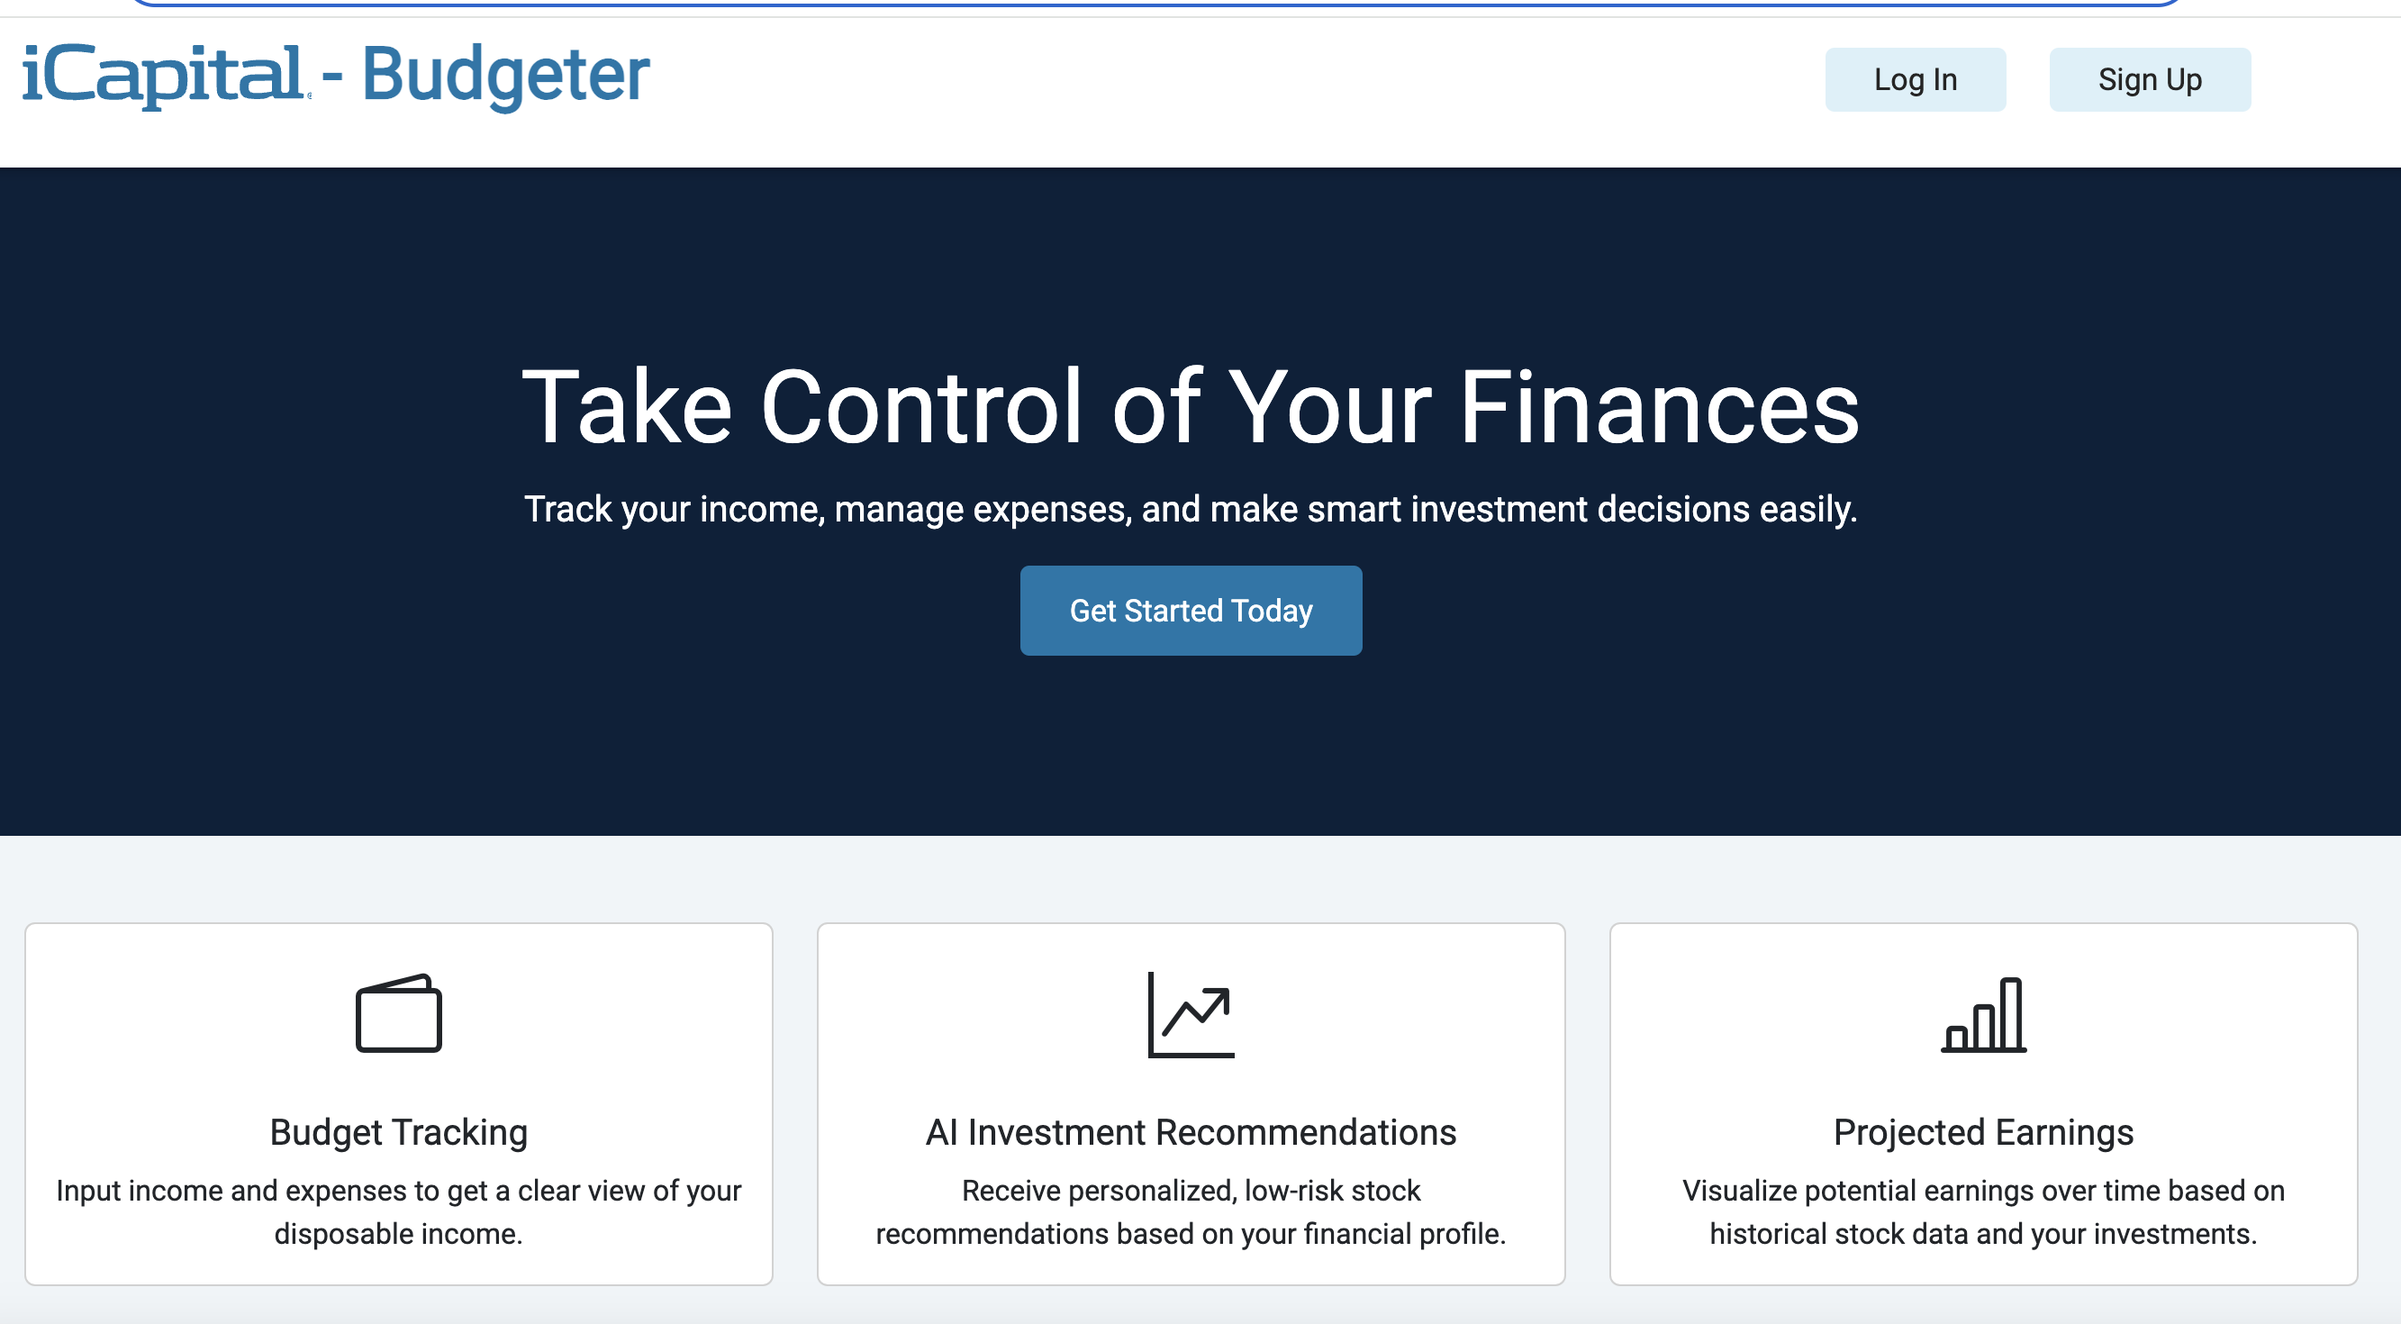
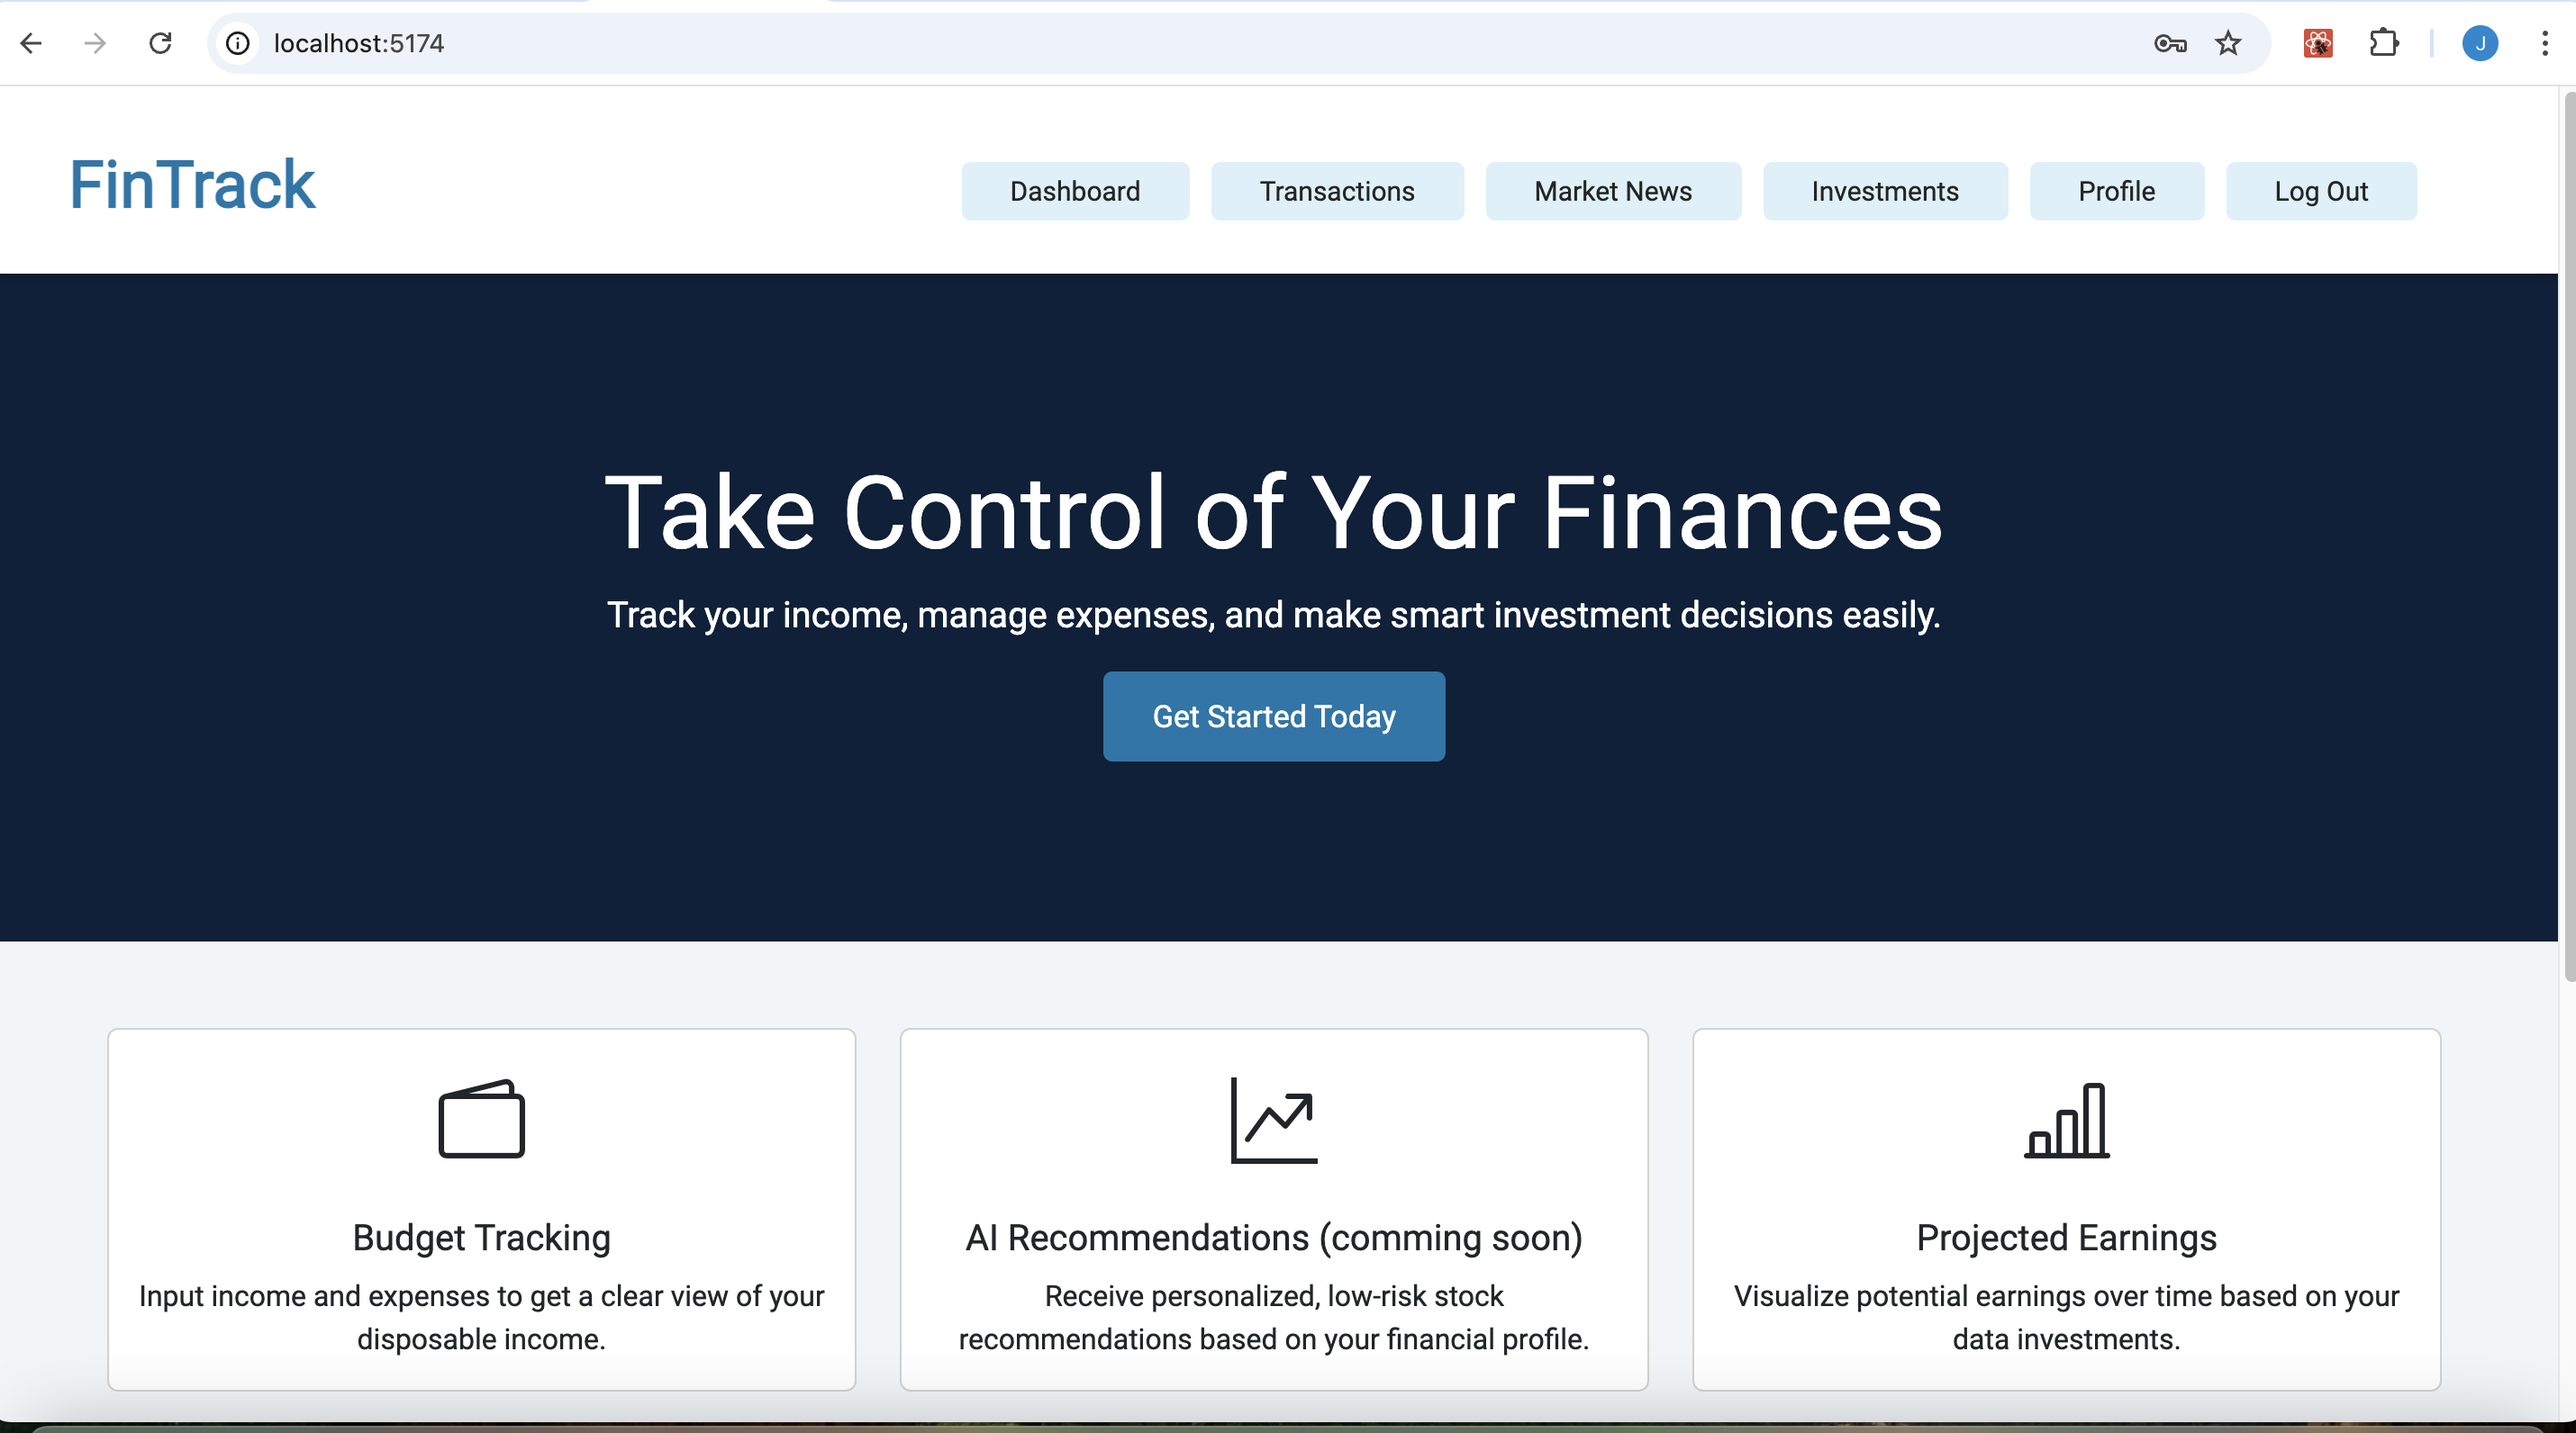
update site branding, links & associated data

diff --git a/src/layout/Footer.jsx b/src/layout/Footer.jsx
@@ -7,15 +7,15 @@ import './Footer.scss'
 const Footer = () => {
     return (
         <footer className="footer text-white py-4">
-            <p className="footer__text">&copy; 2024 Budgeting and Investment Recommendation Application - Test. All rights reserved.</p>
+            <p className="footer__text">&copy; 2024 Financial Insights and Tracking Application. All rights reserved.</p>
             <div className="footer__social-links">
-                <a href="https://github.com/jorammercado/icapital-budgeter-frontend" target="_blank" rel="noopener noreferrer" className="footer__social-links__link">
+                <a href="https://github.com/JoramAMercado/fin-track-frontend" target="_blank" rel="noopener noreferrer" className="footer__social-links__link">
                     <FontAwesomeIcon icon={faGithub} />
                 </a>
                 <a href="https://www.pursuit.org" target="_blank" rel="noopener noreferrer" className="footer__social-links__link">
                     <img src={logo} />
                 </a>
-                <a href="https://www.linkedin.com/in/jorammercado" target="_blank" rel="noopener noreferrer" className="footer__social-links__link">
+                <a href="https://www.linkedin.com/in/joramamercado" target="_blank" rel="noopener noreferrer" className="footer__social-links__link">
                     <FontAwesomeIcon icon={faLinkedin} />
                 </a>
             </div>

diff --git a/src/layout/NavBar.jsx b/src/layout/NavBar.jsx
@@ -1,7 +1,6 @@
 import { Link, useNavigate } from 'react-router-dom'
 
 import useScreenWidth from '../hooks/useScreenWidth'
-import logo from '../assets/images/icapital-logo-full-name.svg'
 import './NavBar.scss'
 
 export default function NavBar({ token, handleLogout, currentUser }) {
@@ -14,8 +13,7 @@ export default function NavBar({ token, handleLogout, currentUser }) {
 
                 <div className="navbar__logo">
                     <Link to="/">
-                        <img src={logo} alt="Logo" className="navbar__logo__image" />
-                        <span className="navbar__logo__text">{screenWidth > 610 ? " - Budgeter" : "Budgeter"}</span>
+                        <span className="navbar__logo__text">FinTrack</span>
                     </Link>
                 </div>
 

diff --git a/index.html b/index.html
@@ -2,9 +2,9 @@
 <html lang="en">
   <head>
     <meta charset="UTF-8" />
-    <link rel="icon" type="image/svg+xml" href="/images/icapital-logo.png" />
+    <link rel="icon" type="image/svg+xml" href="/images/coin.svg" />
     <meta name="viewport" content="width=device-width, initial-scale=1.0" />
-    <title>Budgeter - iCapital</title>
+    <title>FinTrack</title>
   </head>
   <body>
     <div id="root"></div>

diff --git a/README.md b/README.md
@@ -1,12 +1,10 @@
-[<img src="./public/images/logo-icapital.png" height="55px" alt="iCapital Logo">](https://icapital-budgeter.netlify.app/)
+# Financial Insights and Tracking Application
 ___
 
-[<img src="./public/images/home.png" height="185px" alt="Home Screenshot">](https://icapital-budgeter.netlify.app/)
+[<img src="./public/images/home.png" height="185px" alt="Home Screenshot">](https://fintrackpro.netlify.app/)
 
 ## Description
-The iCapital Budgeter is part of the Software Engineer Take-Home Exam Project for iCapital's rotational program. It is designed to evaluate fellows' analytical, software development, and problem-solving skills by assessing their ability to design and develop a full-stack application. This project aims to provide insight into the candidate's thought processes, research methods, and approach to solving problems.
-
-The application allows users to track income and expenses by logging financial transactions. Users can categorize and log transactions to track their checking, savings, and investment accounts. The data for the three accounts is tabulated and graphed, with sorting and filtering features in order for users to easily find transactions and see trends in their spending and savings patterns. The application also allows users to view real-time stock prices to analyze stock performance, as well as having relevant and current financial news, helping users make confident and informed investment decisions. 
+The FinTrack application allows users to track income and expenses by logging financial transactions. Users can categorize and log transactions to track their checking, savings, and investment accounts. The data for the three accounts is tabulated and graphed, with sorting and filtering features in order for users to easily find transactions and see trends in their spending and savings patterns. The application also allows users to view real-time stock prices to analyze stock performance, as well as having relevant and current financial news, helping users make confident and informed investment decisions. 
 
 ## Contents
 - [Tech Stack](#tech-stack)
@@ -73,12 +71,12 @@ The application allows users to track income and expenses by logging financial t
 - **Session Management**: JWT (session lifecycle managed using jwt-decode)
 
 ## Deployed Application
-- **Frontend hosted on Netlify**: [icapital-budgeter.netlify.app](https://icapital-budgeter.netlify.app/)
-- **Backend Server hosted on Render**: [icapital-budgeter-backend-services.onrender.com](https://icapital-budgeter-backend-services.onrender.com/)
+- **Frontend hosted on Netlify**: [fintrackpro.netlify.app](https://fintrackpro.netlify.app/)
+- **Backend Server hosted on Render**: [fintrack-backend-services.onrender.com](https://fintrack-backend-services.onrender.com/)
 
 ## GitHub Repositories
-- **Frontend**: [github.com/jorammercado/icapital-budgeter-frontend](https://github.com/jorammercado/icapital-budgeter-frontend)
-- **Backend**:  [github.com/jorammercado/icapital-budgeter-backend](https://github.com/jorammercado/icapital-budgeter-backend)
+- **Frontend**: [github.com/JoramAMercado/fin-track-frontend](https://github.com/JoramAMercado/fin-track-frontend)
+- **Backend**:  [github.com/JoramAMercado/fin-track-backend](https://github.com/JoramAMercado/fin-track-backend)
 
 ## Guest Login
 The application includes a **Guest Login** feature, allowing visitors to explore the full functionality of the site without creating an account. This feature provides a seamless way to navigate the platform and interact with all features using preloaded sample data. It is ideal for demonstrating the application’s capabilities while ensuring the integrity of real user data.
@@ -407,33 +405,15 @@ Session management on the frontend is implemented using a JWT (JSON Web Token) i
       This mechanism ensures accurate and real-time account updates, providing users with immediate insights into their financial standing without requiring backend recalculation. By leveraging dynamic processing and immutability principles, the application delivers both performance and reliability in balance management.
 
 2. ### **Transactions Graph**
-      The Transactions Graph provides users with a dynamic visualization of changes in their financial accounts (checking, savings, and investments) over time, implemented using D3.js.
+      The Transactions Graph provides users with a dynamic visualization of changes in their financial accounts (checking, savings, and investments) over time. Implemented using D3.js, this interactive graph includes the following features:
 
-      1. #### **How the Transactions Graph Was Built**
-         The Graph was initially developed as part of my capstone project, **Court-IQ**, during my time at the **Pursuit Fellowship**. This project focused on providing an intuitive, data-driven platform for basketball enthusiasts, offering real-time insights into player statistics such as points, rebounds, and assists per game for the current season. You can explore the project on its [GitHub repository](https://github.com/jorammercado/Court-IQ) or visit the deployed site at [Court-IQ.netlify.app](https://court-iq.netlify.app/).
-
-         The original development of the graph was a challenging but rewarding process, as it involved extensive research and learning about D3.js and its ecosystem. Altering the graph to fit the current use case of visualizing financial transactions was a relatively straightforward process, but it was built upon the complex foundation established during the development of Court-IQ.
-
-         #### **Development Journey**
-         To create the original graph, I combined resources and inspiration from several key sources. My approach involved adapting templates and learning from the official [D3.js documentation](https://d3js.org/) alongside practical examples from online graph galleries. Some of the most influential resources were:
-
-         - **React-Graph Gallery** ([react-graph-gallery.com](https://www.react-graph-gallery.com/)): This site provided an excellent starting point for integrating D3.js with React. Its examples and templates helped bridge the gap between raw D3.js functionality and React's component-based architecture.
-         - **D3 Graph Gallery** ([d3-graph-gallery.com](https://d3-graph-gallery.com/)): Templates such as the [stacked area chart](https://d3-graph-gallery.com/graph/stackedarea_template.html) and the [area plot](https://www.react-graph-gallery.com/area-plot) served as foundational examples. I analyzed these templates, extracting relevant features and adapting them to fit the requirements of the Court-IQ project.
-
-         The development process involved stitching together pieces of knowledge and examples, often requiring trial and error, debugging, and customization to achieve the desired functionality and aesthetics. Over time, developing an understanding of how D3.js interacts with the data, allowing me to build the highly interactive and responsive graph that became a core feature of Court-IQ.
-
-         #### **Reimagining the Graph for Financial Data**
-         The transition from Court-IQ's basketball statistics graph to the Transactions Graph for financial data demonstrates the flexibility and reusability of the original implementation. 
-
-         This transformation showcases how a robustly designed graph can be adapted to different datasets and use cases with minimal adjustments. By leveraging the lessons learned from the initial development, the Transactions Graph was developed to meet the specific needs of this financial visualization, providing users with a tool to make data-driven decisions effortlessly.
-
-      2. #### **Core Functionalities**
+      1. #### **Core Functionalities**
          1. **Account Visualization**: Displays the running balances of checking, savings, and investment accounts as line graphs.
          2. **Dynamic Data Updates**: Graph data updates in real-time based on user transactions, reflecting changes immediately.
          3. **Zoom**: Users can zoom in/out to focus on specific time periods or transactions, providing granular insights into account trends.
          4. **Customizable Visibility**: A built-in legend allows users to toggle individual accounts (checking, savings, investments) on or off, enhancing clarity.
 
-      3. #### **Axes & Visualization**
+      2. #### **Axes & Visualization**
          - The X-axis represents transactions by order of time/date - logged into the system. If a given transaction was performed on the savings account for example, then the other two accounts will remain the same for that particular transaction. 
          - The Y-axis scales to the balance for a given account, updating dynamically as data changes.
          - **Styling**
@@ -445,7 +425,7 @@ Session management on the frontend is implemented using a JWT (JSON Web Token) i
             3. Lines and shaded areas under lines create a visually engaging experience when data changes or users zoom in/out.
             4. Specific data points are plotted as small circles for precise visualization.
 
-      4. #### **Dynamic Scaling**
+      3. #### **Dynamic Scaling**
       - The graph dynamically adjusts to the user's screen size to ensure optimal display across devices. 
       In the following code snippet, an event listener is added to the window object - when screen size changes, it triggers the function handleResize to execute. 
          ```javascript
@@ -466,7 +446,7 @@ Session management on the frontend is implemented using a JWT (JSON Web Token) i
                      screenWidth <= 1660 && screenWidth > 1560 ? 1350 :
          ```
 
-      5. #### **User Interaction Features**
+      4. #### **User Interaction Features**
          1. #### **Legend and Toggling**:
             - A clickable legend allows users to toggle the visibility of individual accounts.
             - Color-coded boxes indicate whether an account is visible or hidden.
@@ -515,7 +495,7 @@ Session management on the frontend is implemented using a JWT (JSON Web Token) i
 
 
 
-      6. #### **Why This Graph Matters**
+      5. #### **Why This Graph Matters**
          This interactive graph empowers users to make data-driven financial decisions by offering:
          - A clear, real-time visualization of account trends.
          - Tools to analyze patterns in income, expenses, and investments.
